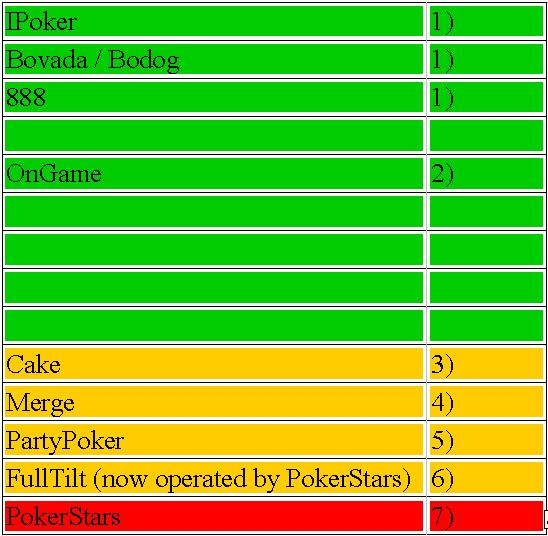
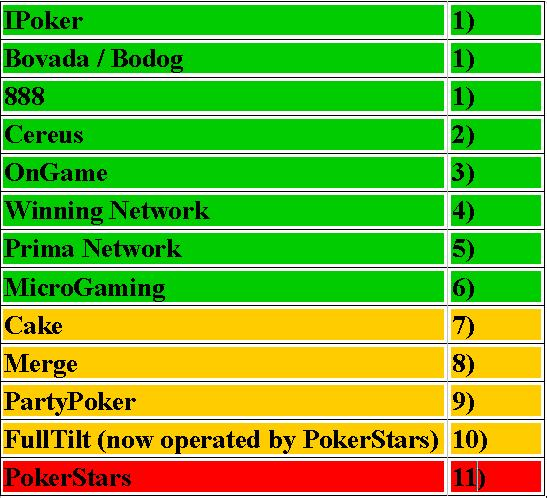
T: docu: stealth

diff --git a/Documentation/Chapters/stealth/colour_coded_pokersites.html.LyXconv/colour_coded_pokersites.html b/Documentation/Chapters/stealth/colour_coded_pokersites.html.LyXconv/colour_coded_pokersites.html
@@ -1,0 +1,72 @@
+<?xml version="1.0" encoding="UTF-8"?>
+<!DOCTYPE html PUBLIC "-//W3C//DTD XHTML 1.0 Transitional//EN" "http://www.w3.org/TR/xhtml1/DTD/xhtml1-transitional.dtd">
+<html xmlns="http://www.w3.org/1999/xhtml" xml:lang="en" lang="en">
+<head>
+<meta http-equiv="Content-Type" content="text/html; charset=UTF-8"/>
+<meta name="generator" content="http://www.nongnu.org/elyxer/"/>
+<meta name="create-date" content="2015-04-11"/>
+<link rel="stylesheet" href="http://elyxer.nongnu.org/lyx.css" type="text/css" media="all"/>
+<title>Converted document</title>
+</head>
+<body>
+<div id="globalWrapper">
+<h1 class="Chapter-">
+<a class="toc" name="toc-Chapter--1"></a>Pokersites and Security
+</h1>
+<div class="Unindented">
+<div class="float">
+<div class="figure">
+<img class="embedded" src="images/pokersites_security.jpg" alt="figure images/pokersites_security.jpg" style="max-width: 547px; max-height: 498px;"/>
+
+</div>
+
+</div>
+
+</div>
+<h2 class="Section-">
+<a class="toc" name="toc-Section--1"></a>Remarks
+</h2>
+<ol>
+<li>
+IPoker, Bovada/Bodog, 888: supported by Shanky Bonusbots. Lots of people botting there naked without any stealth and insane &ldquo;human-like&rdquo; hours.
+</li>
+<li>
+Cereus (former Absolute and Ultimate): the scandal casino with the worst reputation on earth. Bots welcome.
+</li>
+<li>
+OnGame: we once knew a guy who ran a farm there, 55 acounts, NL 10 SSS, singletabling (because his hopper was not able to run more than one table), playing all accounts naked round the clock. It took six weeks until he got busted.
+</li>
+<li>
+Winning Network: no bans known
+</li>
+<li>
+Prima Network: the only ban we ever heard of happened after a long holiday (bot turned off).
+</li>
+<li>
+MicroGaming: occasional bans
+</li>
+<li>
+CakePoker: supported by Shanky and bot-friendly. Disallows PokerTracker support to protect both fish and bots. However they ban OpenHoldem botters who play naked, maybe because these bots are fewer and more sophisticated.
+</li>
+<li>
+Merge: supported by Shanky in the past until a mass-ban out of the blue sky.
+</li>
+<li>
+Supposed to be nearly as strict as PokerStars back in 2006 when Party got 70% of the Poker market. However reports about bans became very rare in the mean-time and more and more people report good successes.
+</li>
+<li>
+FullTilt:
+</li>
+<li>
+PokerStars:
+</li>
+
+</ol>
+
+<hr class="footer"/>
+<div class="footer" id="generated-by">
+Document generated by <a href="http://elyxer.nongnu.org/">eLyXer 1.2.5 (2013-03-10)</a> on <span class="create-date">2015-04-11T14:00:03.038000</span>
+</div>
+</div>
+</body>
+</html>
